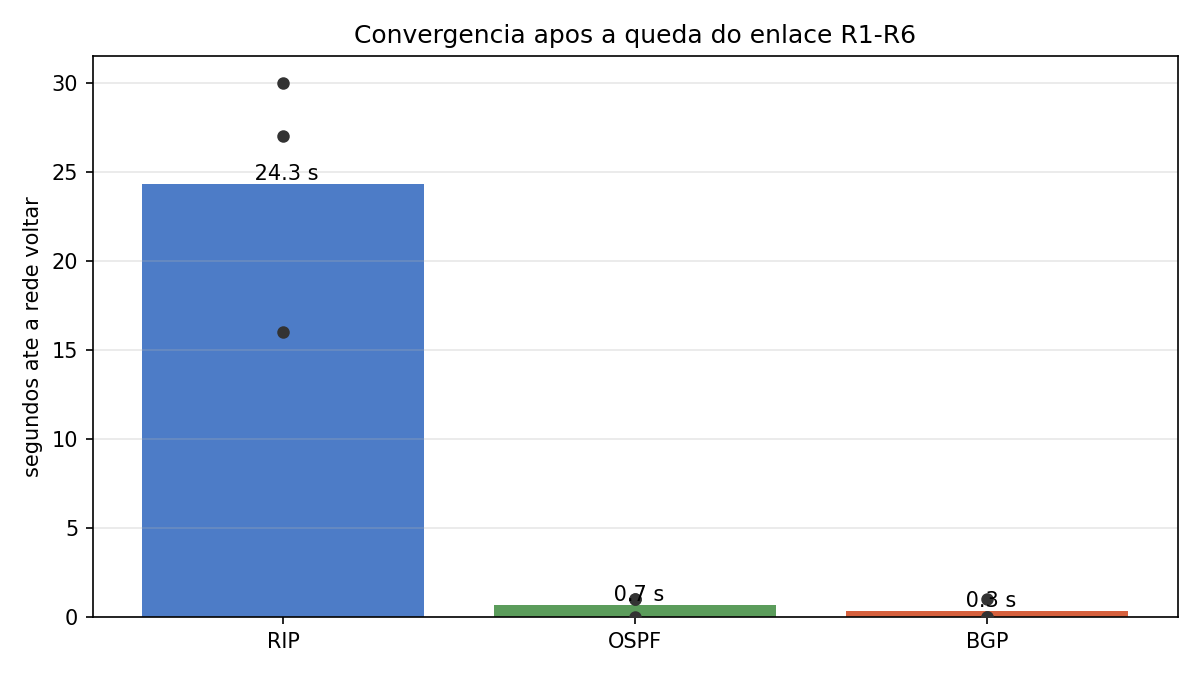
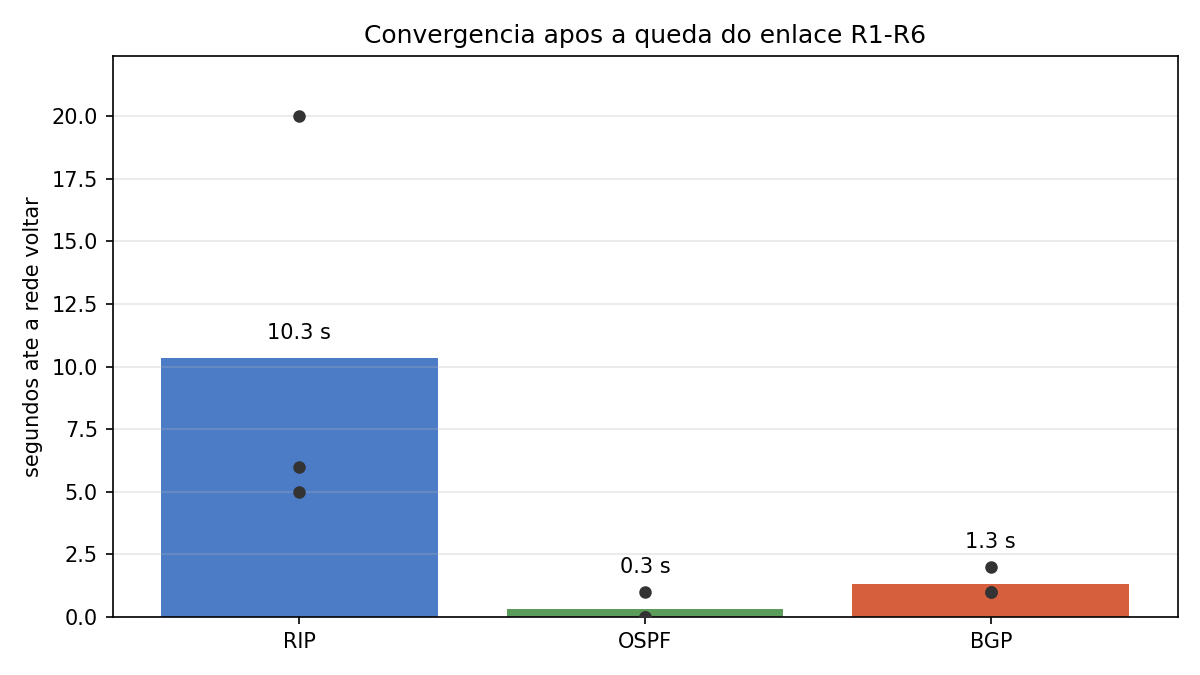
Correcao da metrica de convergencia

diff --git a/README.md b/README.md
@@ -217,8 +217,9 @@ tabela inteira. O BGP só envia quando alguma rota muda.
 
 ![Convergência](results/plots/convergence.png)
 
-O RIP leva mais de vinte segundos e varia bastante entre as repetições. O OSPF e o
-BGP se recuperam em menos de um segundo.
+O enlace derrubado está no caminho que os três usam para chegar na rede do R6,
+então todos perderam a rota em uso. O RIP levou 10,3 s de média, variando de 5 a
+20. O OSPF levou 0,3 s e o BGP 1,3 s.
 
 ## Vídeo
 
